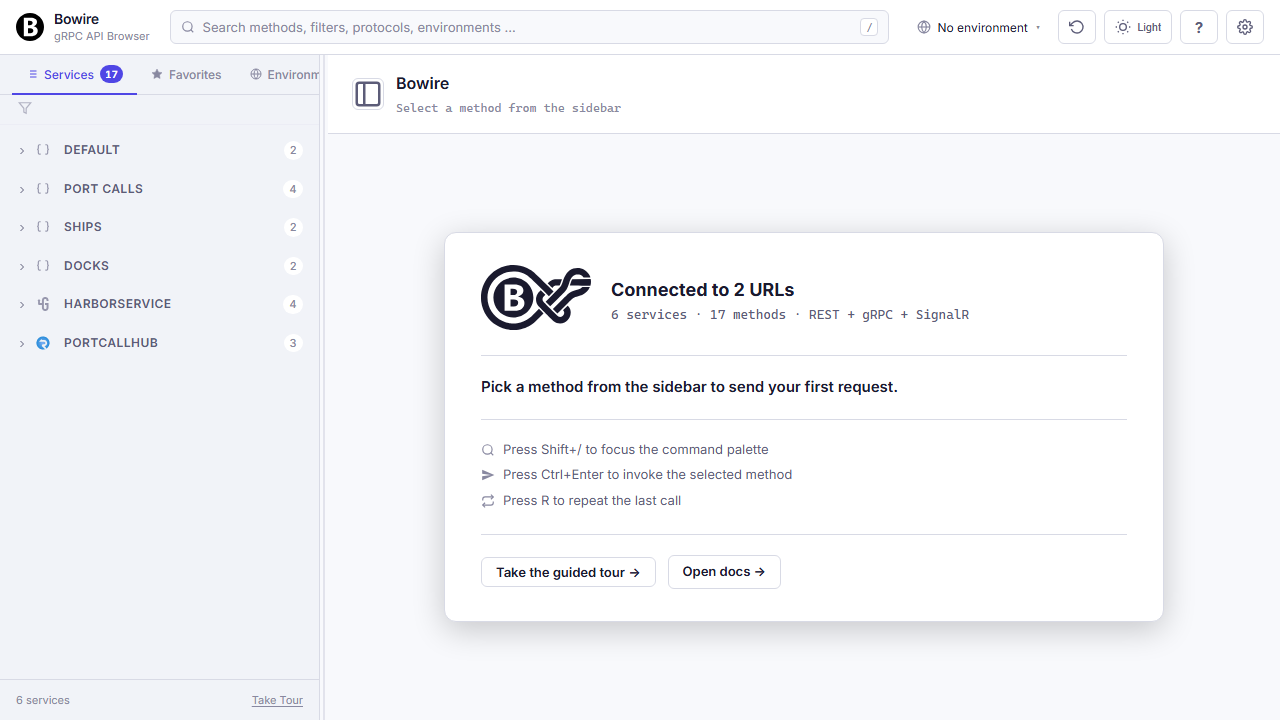
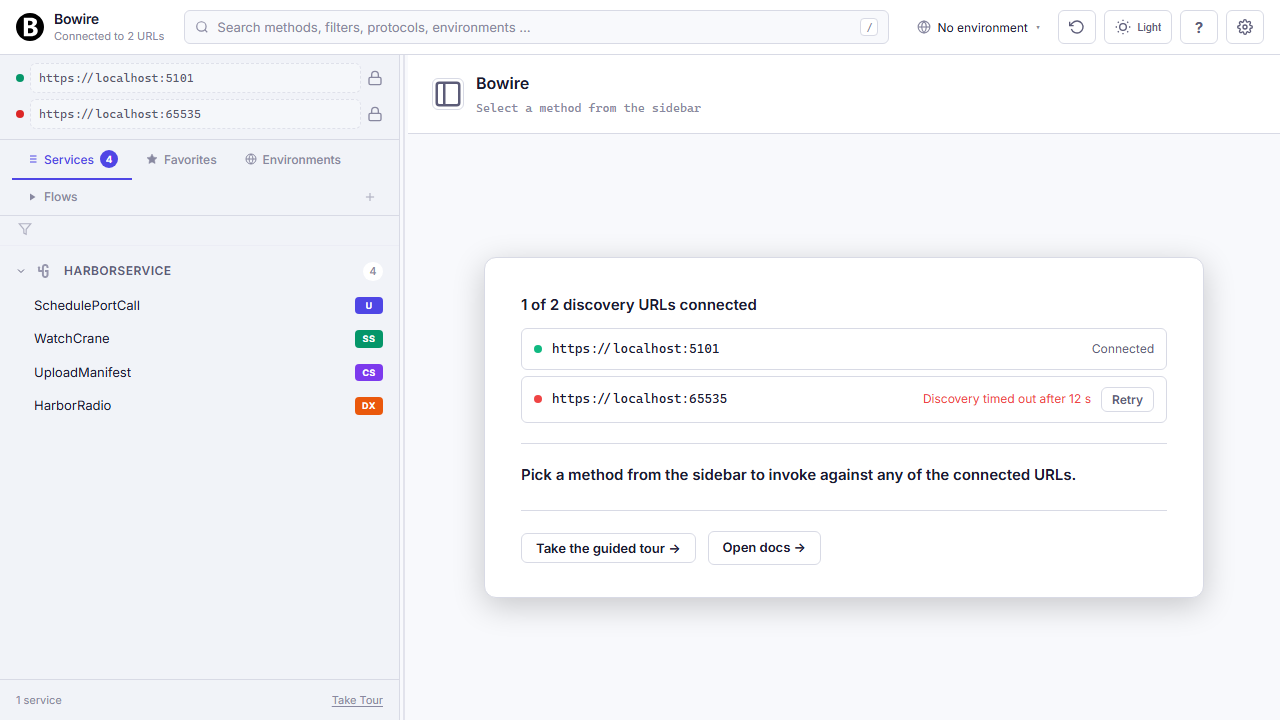
site: recapture the four empty-state screenshots so they actually differ
Three of the four 'Smart empty states' captures had drifted into
near-identical 'Connected to localhost:NNNNN'-with-services renders
because the bowire processes feeding the script had been started
with the same valid --url instead of the state-specific
configurations the script's docstring describes. First-run, multi-
URL and discovery-failed all came back showing 17 discovered
methods in the sidebar — visually indistinguishable from the
'ready' shot they were supposed to contrast with.

Re-captured the three broken states against properly-configured
bowire processes:

  * first-run    — no --url, lands in the welcome screen with
                   the two onboarding cards (Connect / Upload)
                   and an empty sidebar
  * multi-url    — --url 5101 + --url 65535, lands in the
                   per-URL status table with one green and one
                   red row and a [Retry] button
  * discovery-failed — --url 65535, lands in the actual error
                       page: red broken-link icon, 'Could not
                       discover services at https://localhost:
                       65535', timeout message, four
                       troubleshoot bullets

The ready shot was already correct and only got refreshed for
parity.

The capture-empty-states.js script also had a stale path: it
navigated to localhost:NNNN/bowire, which only works in embedded
mode. Standalone-mode bowire (v1.2.0+) mounts at /, so the script
[…]

diff --git a/site/_includes/screenshots.html b/site/_includes/screenshots.html
@@ -55,14 +55,14 @@
       <div class="screenshot-carousel-track">
 
         <!-- ===== Landing states ===== -->
-
-        <a class="screenshot-card" href="{{ '/features.html#empty-states' | relative_url }}">
-          {% include themed-img.html src="/assets/images/screenshots/ready.png" alt="Bowire ready landing — connected to a server, services discovered, waiting for method selection" %}
-          <div class="screenshot-card-body">
-            <h4>Connected &amp; ready</h4>
-            <p>Service summary, recent-history quick-recall, keyboard shortcut tips, guided tour entry point.</p>
-          </div>
-        </a>
+        <!-- Trimmed deliberately to two of the most visually distinct
+             variants. The other landing states (multi-URL status table,
+             discovery-failed error guidance, schema-file upload) live
+             on features.html under #empty-states / #schema-upload where
+             they're shown side-by-side in a grid with clear captions —
+             putting all five into the carousel made them look like
+             near-identical "connected" screens because their main UI
+             chrome is shared. -->
 
         <a class="screenshot-card" href="{{ '/features.html#empty-states' | relative_url }}">
           {% include themed-img.html src="/assets/images/screenshots/first-run.png" alt="First-run welcome screen with two onboarding cards — connect to a server, or upload a schema file" %}
@@ -73,30 +73,18 @@
         </a>
 
         <a class="screenshot-card" href="{{ '/features.html#empty-states' | relative_url }}">
-          {% include themed-img.html src="/assets/images/screenshots/multi-url.png" alt="Multi-URL setup with one connected server and one failed — per-URL status table with retry buttons" %}
+          {% include themed-img.html src="/assets/images/screenshots/ready.png" alt="Bowire ready landing — connected to a server, services discovered, waiting for method selection" %}
           <div class="screenshot-card-body">
-            <h4>Multi-URL discovery</h4>
-            <p>Connect to multiple servers in parallel — per-URL status table with retry buttons for any that fail.</p>
-          </div>
-        </a>
-
-        <a class="screenshot-card" href="{{ '/features.html#empty-states' | relative_url }}">
-          {% include themed-img.html src="/assets/images/screenshots/discovery-failed.png" alt="Discovery failed against an unreachable server — error message plus four troubleshoot bullets" %}
-          <div class="screenshot-card-body">
-            <h4>Smart error guidance</h4>
-            <p>When discovery fails, the landing surfaces the actual error plus four common-cause troubleshoot bullets.</p>
+            <h4>Connected &amp; ready</h4>
+            <p>Service summary, recent-history quick-recall, keyboard shortcut tips, guided tour entry point.</p>
           </div>
         </a>
 
         <!-- ===== Core workflows ===== -->
-
-        <a class="screenshot-card" href="{{ '/features.html#schema-upload' | relative_url }}">
-          {% include themed-img.html src="/assets/images/screenshots/schema-upload.png" alt="Schema upload — drop in a .proto, OpenAPI spec, or GraphQL SDL and browse the API offline" %}
-          <div class="screenshot-card-body">
-            <h4>Work offline with a schema file</h4>
-            <p>Drop in a <code>.proto</code>, OpenAPI spec, or GraphQL SDL and browse the API without a running server. Great for reviewing a contract during code review.</p>
-          </div>
-        </a>
+        <!-- Ordered so adjacent cards are visually as different as
+             possible: each shift introduces a new UI region or layout
+             (sidebar pane vs. graph editor vs. detail-pane stream vs.
+             modal palette vs. histogram). -->
 
         <a class="screenshot-card" href="{{ '/features.html#flow-editor' | relative_url }}">
           {% include themed-img.html src="/assets/images/screenshots/flow-editor.png" alt="Visual flow editor — pipeline of API calls with branching conditions and loops" %}

diff --git a/scripts/capture-empty-states.js b/scripts/capture-empty-states.js
@@ -44,7 +44,11 @@ function log(m) { console.log(new Date().toISOString().slice(11, 19), m); }
     for (const { name, port } of STATES) {
         log(`${name} (port ${port}, theme=${THEME})…`);
         try {
-            await page.goto(`http://localhost:${port}/bowire`, { waitUntil: 'domcontentloaded' });
+            // Standalone bowire (v1.2.0+) mounts at /, not /bowire — the
+            // /bowire path is reserved for embedded-mode hosts. Each of
+            // the four ports below is its own standalone process, so /
+            // is the correct entry.
+            await page.goto(`http://localhost:${port}/`, { waitUntil: 'domcontentloaded' });
             // Force the theme pref before first paint and reload so the
             // capture lands in the explicitly-themed render rather than
             // whatever the OS pref says.
